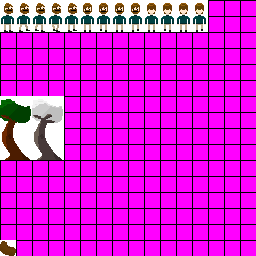
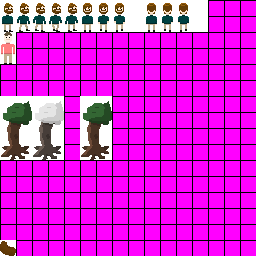
tedious stuff & artwork

diff --git a/action rpg/src/woodstock/io/InputHandler.java b/action rpg/src/woodstock/io/InputHandler.java
@@ -54,9 +54,9 @@ public class InputHandler implements KeyListener, MouseListener, MouseMotionList
 	public Key D = new Key();
 	public Key esc = new Key();
 	public Key space = new Key();
-	public Key k1 = new Key();
-	public Key k2 = new Key();
-	public Key k3 = new Key();
+	public Key NUM_1 = new Key();
+	public Key NUM_2 = new Key();
+	public Key NUM_3 = new Key();
 
 	@Override
 	public void keyPressed(KeyEvent e) {
@@ -93,19 +93,19 @@ public class InputHandler implements KeyListener, MouseListener, MouseMotionList
 
 		if (e.getKeyCode() == KeyEvent.VK_1) {
 
-			k1.toggle(true);
+			NUM_1.toggle(true);
 
 		}
 
 		if (e.getKeyCode() == KeyEvent.VK_2) {
 
-			k2.toggle(true);
+			NUM_2.toggle(true);
 
 		}
 
 		if (e.getKeyCode() == KeyEvent.VK_3) {
 
-			k3.toggle(true);
+			NUM_3.toggle(true);
 
 		}
 
@@ -200,19 +200,19 @@ public class InputHandler implements KeyListener, MouseListener, MouseMotionList
 
 		if (e.getKeyCode() == KeyEvent.VK_1) {
 
-			k1.toggle(false);
+			NUM_1.toggle(false);
 
 		}
 
 		if (e.getKeyCode() == KeyEvent.VK_2) {
 
-			k2.toggle(false);
+			NUM_2.toggle(false);
 
 		}
 
 		if (e.getKeyCode() == KeyEvent.VK_3) {
 
-			k3.toggle(false);
+			NUM_3.toggle(false);
 
 		}
 

diff --git a/action rpg/src/woodstock/gfx/Assets.java b/action rpg/src/woodstock/gfx/Assets.java
@@ -5,11 +5,12 @@ import java.awt.image.BufferedImage;
 public class Assets {
 
 	static SpriteSheet entities = new SpriteSheet("res/ss_entity.png");
+	static SpriteSheet buildings = new SpriteSheet("res/ss_bldg.png");
 	// Mobs
 	public static final BufferedImage player = entities.getImage(0, 0, 16, 32);
 	public static final Animation pl_hz = new Animation(10, entities.getAnimation(16, 0, 16, 32, 4), false);
-	public static final Animation pl_u = new Animation(10, entities.getAnimation(144, 0, 16, 32, 4), true);
-	public static final Animation pl_dn = new Animation(10, entities.getAnimation(80, 0, 16, 32, 4), true);
+	public static final Animation pl_u = new Animation(20, entities.getAnimation(144, 0, 16, 32, 3), true);
+	public static final Animation pl_dn = new Animation(20, entities.getAnimation(80, 0, 16, 32, 3), true);
 
 	// Flora
 	public static BufferedImage getTree(int type) {
@@ -21,6 +22,9 @@ public class Assets {
 		}
 	}
 
+	//Buildings
+	public static final BufferedImage bldg_00 = buildings.getImage(0, 0, 96, 80);
+	
 	// Misc
 	public static final BufferedImage bean = entities.getImage(0, 240, 16, 16);
 

diff --git a/action rpg/src/woodstock/game/level/Door.java b/action rpg/src/woodstock/game/level/Door.java
@@ -25,14 +25,12 @@ public class Door {
 
 	public void tick() {
 		Player player = GameState.player;
-		if (rect.intersects(GameState.player.collider)) {
-			GameState.player.setLevel(level);
-			GameState.player.x = (int) tpLocation.getX();
-			GameState.player.y = (int) tpLocation.getY();
-			GameState.player.collider = new Rectangle(
-					((int) tpLocation.getX() + (4 * Entity.entScale)),
-					((int) tpLocation.getY() + (24 * Entity.entScale)),
-					7 * Entity.entScale, 8 * Entity.entScale);
+		if (rect.intersects(player.collider)) {
+			player.setLevel(level);
+			player.x = (int) tpLocation.getX();
+			player.y = (int) tpLocation.getY();
+			player.collider = new Rectangle(((int) tpLocation.getX() + (4 * Entity.entScale)),
+					((int) tpLocation.getY() + (24 * Entity.entScale)), 7 * Entity.entScale, 8 * Entity.entScale);
 		}
 	}
 

diff --git a/action rpg/src/woodstock/game/level/Level.java b/action rpg/src/woodstock/game/level/Level.java
@@ -20,6 +20,7 @@ public abstract class Level {
 	public boolean initialized = false;
 
 	public BufferedImage image;
+	public int season = 0; //0 is winter, 1 is spring, 2 = summer, 3 = fall
 	public ArrayList<Entity> entities = new ArrayList<Entity>();
 	public ArrayList<Rectangle> colliders = new ArrayList<Rectangle>();
 	public ArrayList<Door> doors = new ArrayList<Door>();

diff --git a/action rpg/src/woodstock/game/entities/flora/Tree.java b/action rpg/src/woodstock/game/entities/flora/Tree.java
@@ -12,12 +12,19 @@ public class Tree extends Entity {
 
 	public Tree(Level level, int x, int y, int type) {
 		super(level, x, y, Assets.getTree(type));
+		this.type = type;
 		isSolid = true;
 	}
 
 	@Override
 	public void update() {
 		return;
+	}
+	
+	public void generateHitbox() {
+		if(type == 0) {
+			
+		}
 	}
 
 }

diff --git a/action rpg/src/woodstock/gfx/Camera.java b/action rpg/src/woodstock/gfx/Camera.java
@@ -29,8 +29,7 @@ public class Camera {
 	public void render() {
 		if (level != null)
 			level.render();
-		Main.g.drawString(entity.x + ", " + entity.y, entity.x - x, entity.y
-				- y);
+		Main.g.drawString(entity.x + ", " + entity.y, entity.x - x, entity.y - y);
 	}
 
 	public void tick() {

diff --git a/action rpg/src/woodstock/game/entities/Entity.java b/action rpg/src/woodstock/game/entities/Entity.java
@@ -27,7 +27,7 @@ public abstract class Entity {
 		level.entities.add(this);
 		w = image.getWidth() * entScale;
 		h = image.getHeight() * entScale;
-		collider = new Rectangle(x, y + (h / 2), w, h / 2);
+		collider = new Rectangle(x, y + 3 * (h / 4), w, h / 4);
 	}
 
 	public void tick() {

diff --git a/action rpg/src/woodstock/game/entities/buildings/bldg_00.java b/action rpg/src/woodstock/game/entities/buildings/bldg_00.java
@@ -6,7 +6,7 @@ import woodstock.gfx.Assets;
 public class bldg_00 extends Building {
 
 	public bldg_00(Level level, int x, int y, Level interior) {
-		super(level, x, y, null, interior);
+		super(level, x, y, Assets.bldg_00, interior);
 	}
 
 }

diff --git a/action rpg/src/woodstock/game/GameState.java b/action rpg/src/woodstock/game/GameState.java
@@ -8,6 +8,7 @@ public class GameState {
 
 	public static Player player;
 	public static Camera camera;
+	public static int levelSeason = 0;
 	
 	public static void init(){
 		Level.test.tick();

diff --git a/action rpg/src/woodstock/game/entities/buildings/Building.java b/action rpg/src/woodstock/game/entities/buildings/Building.java
@@ -30,5 +30,9 @@ public class Building extends Entity{
 			}
 		}
 	}
+	
+	public void generateInterior() {
+		
+	}
 
 }
